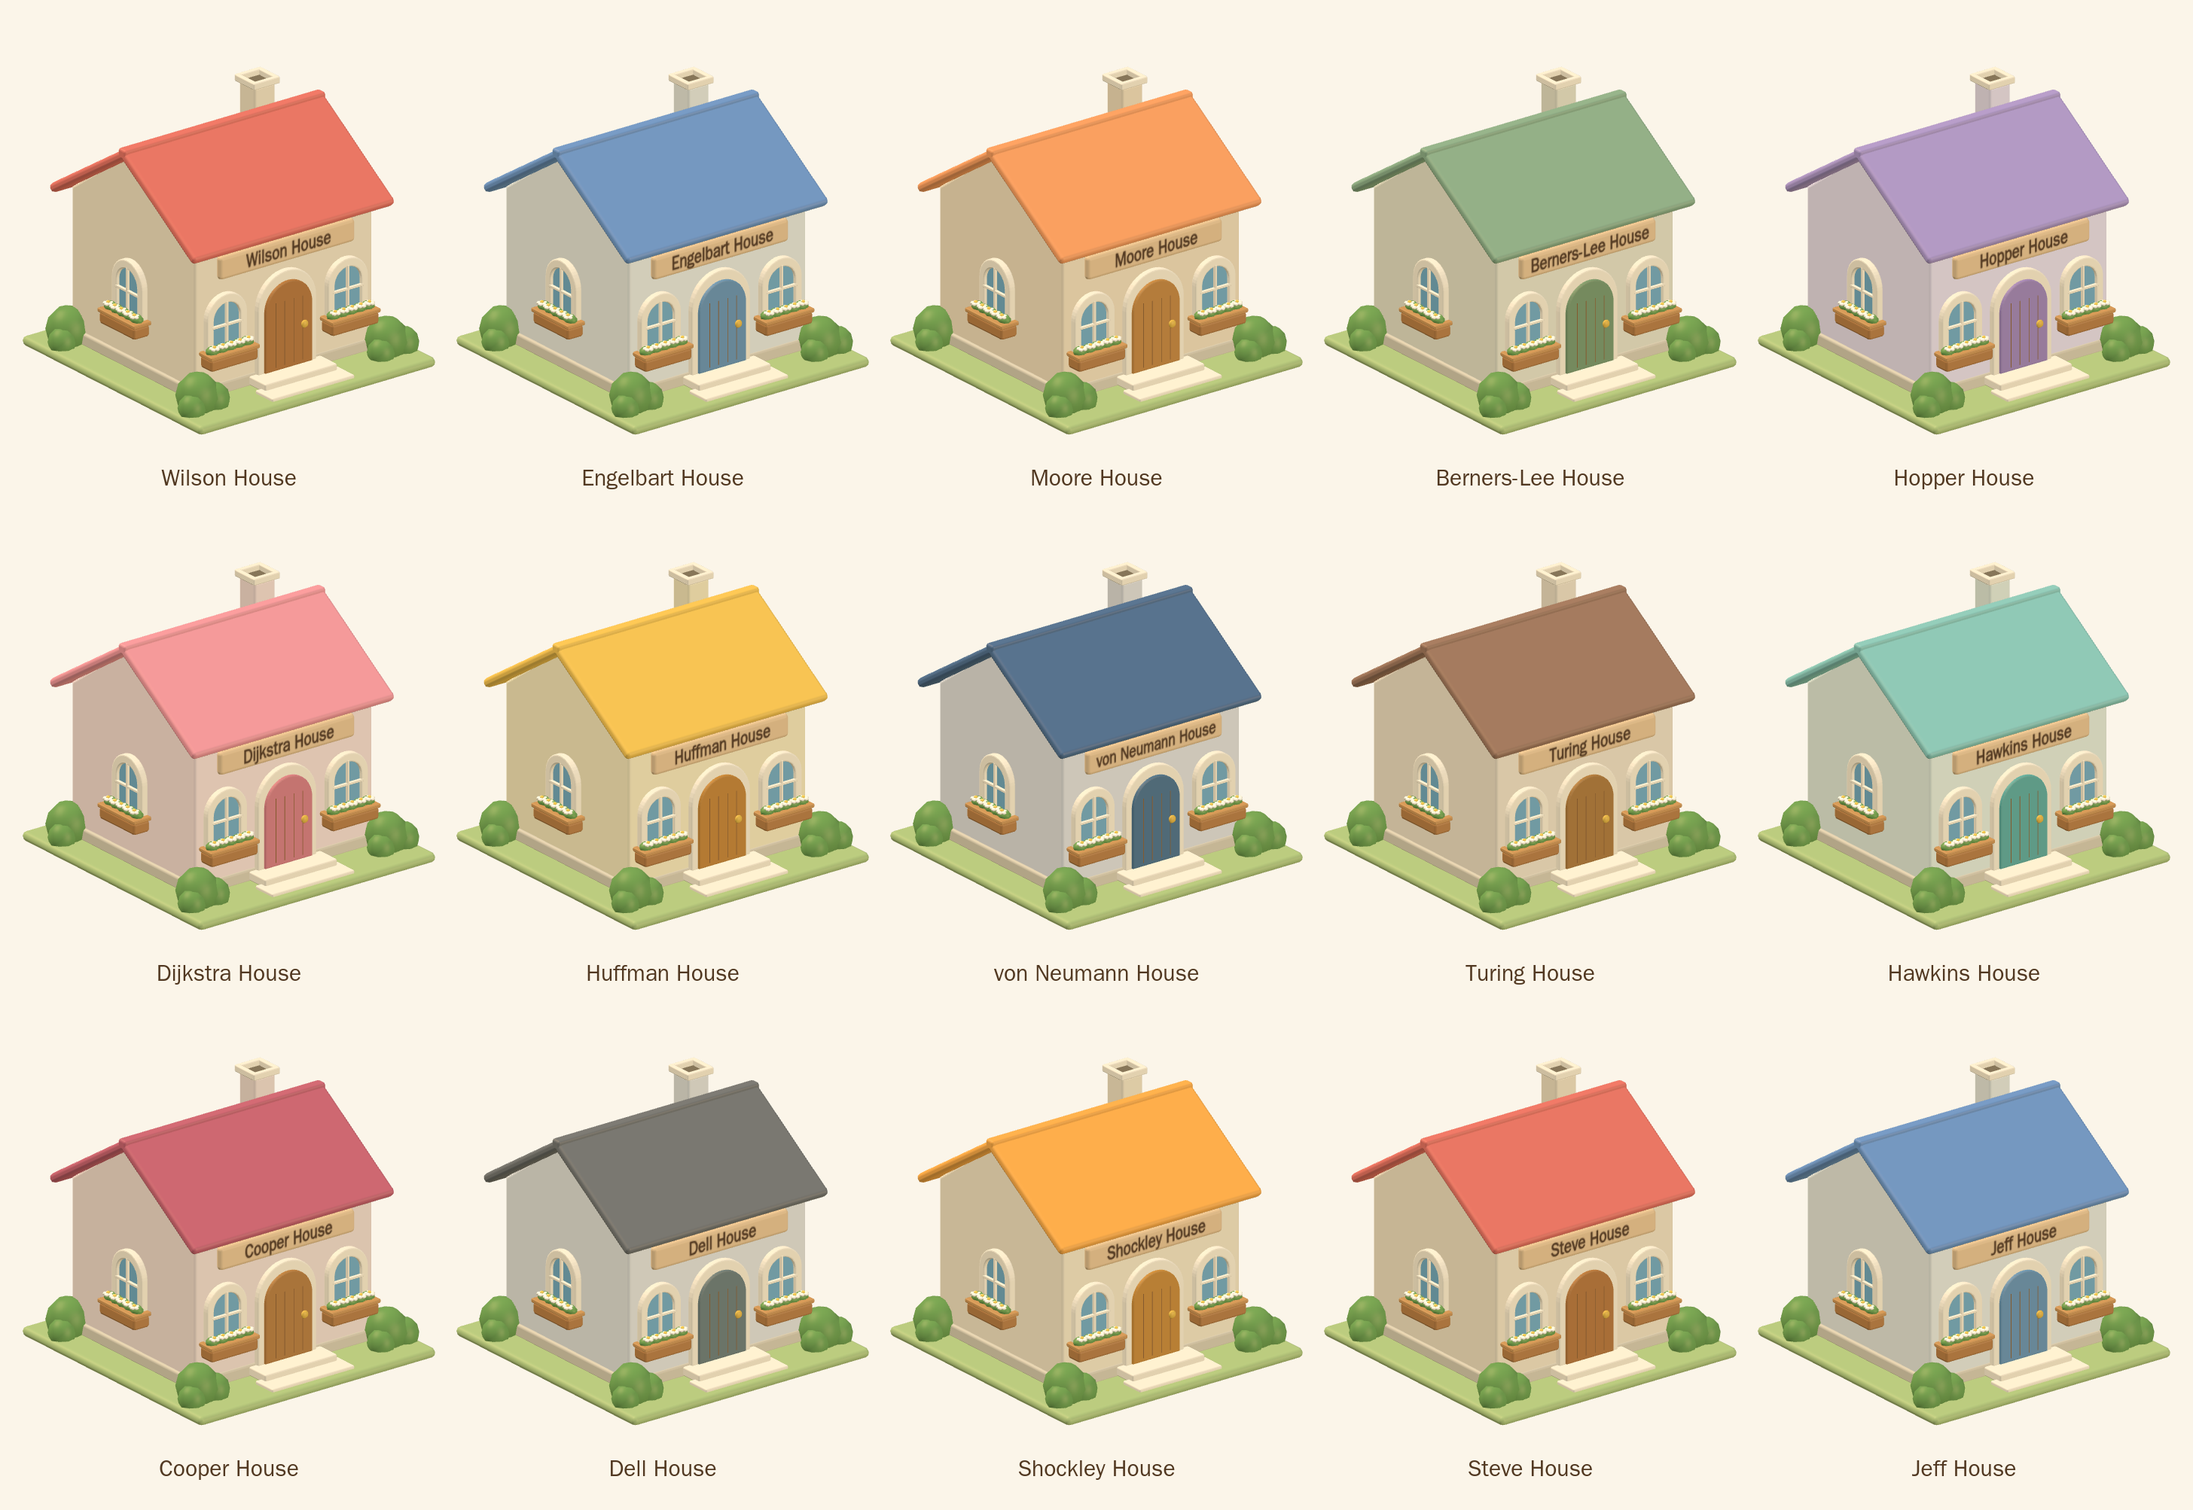
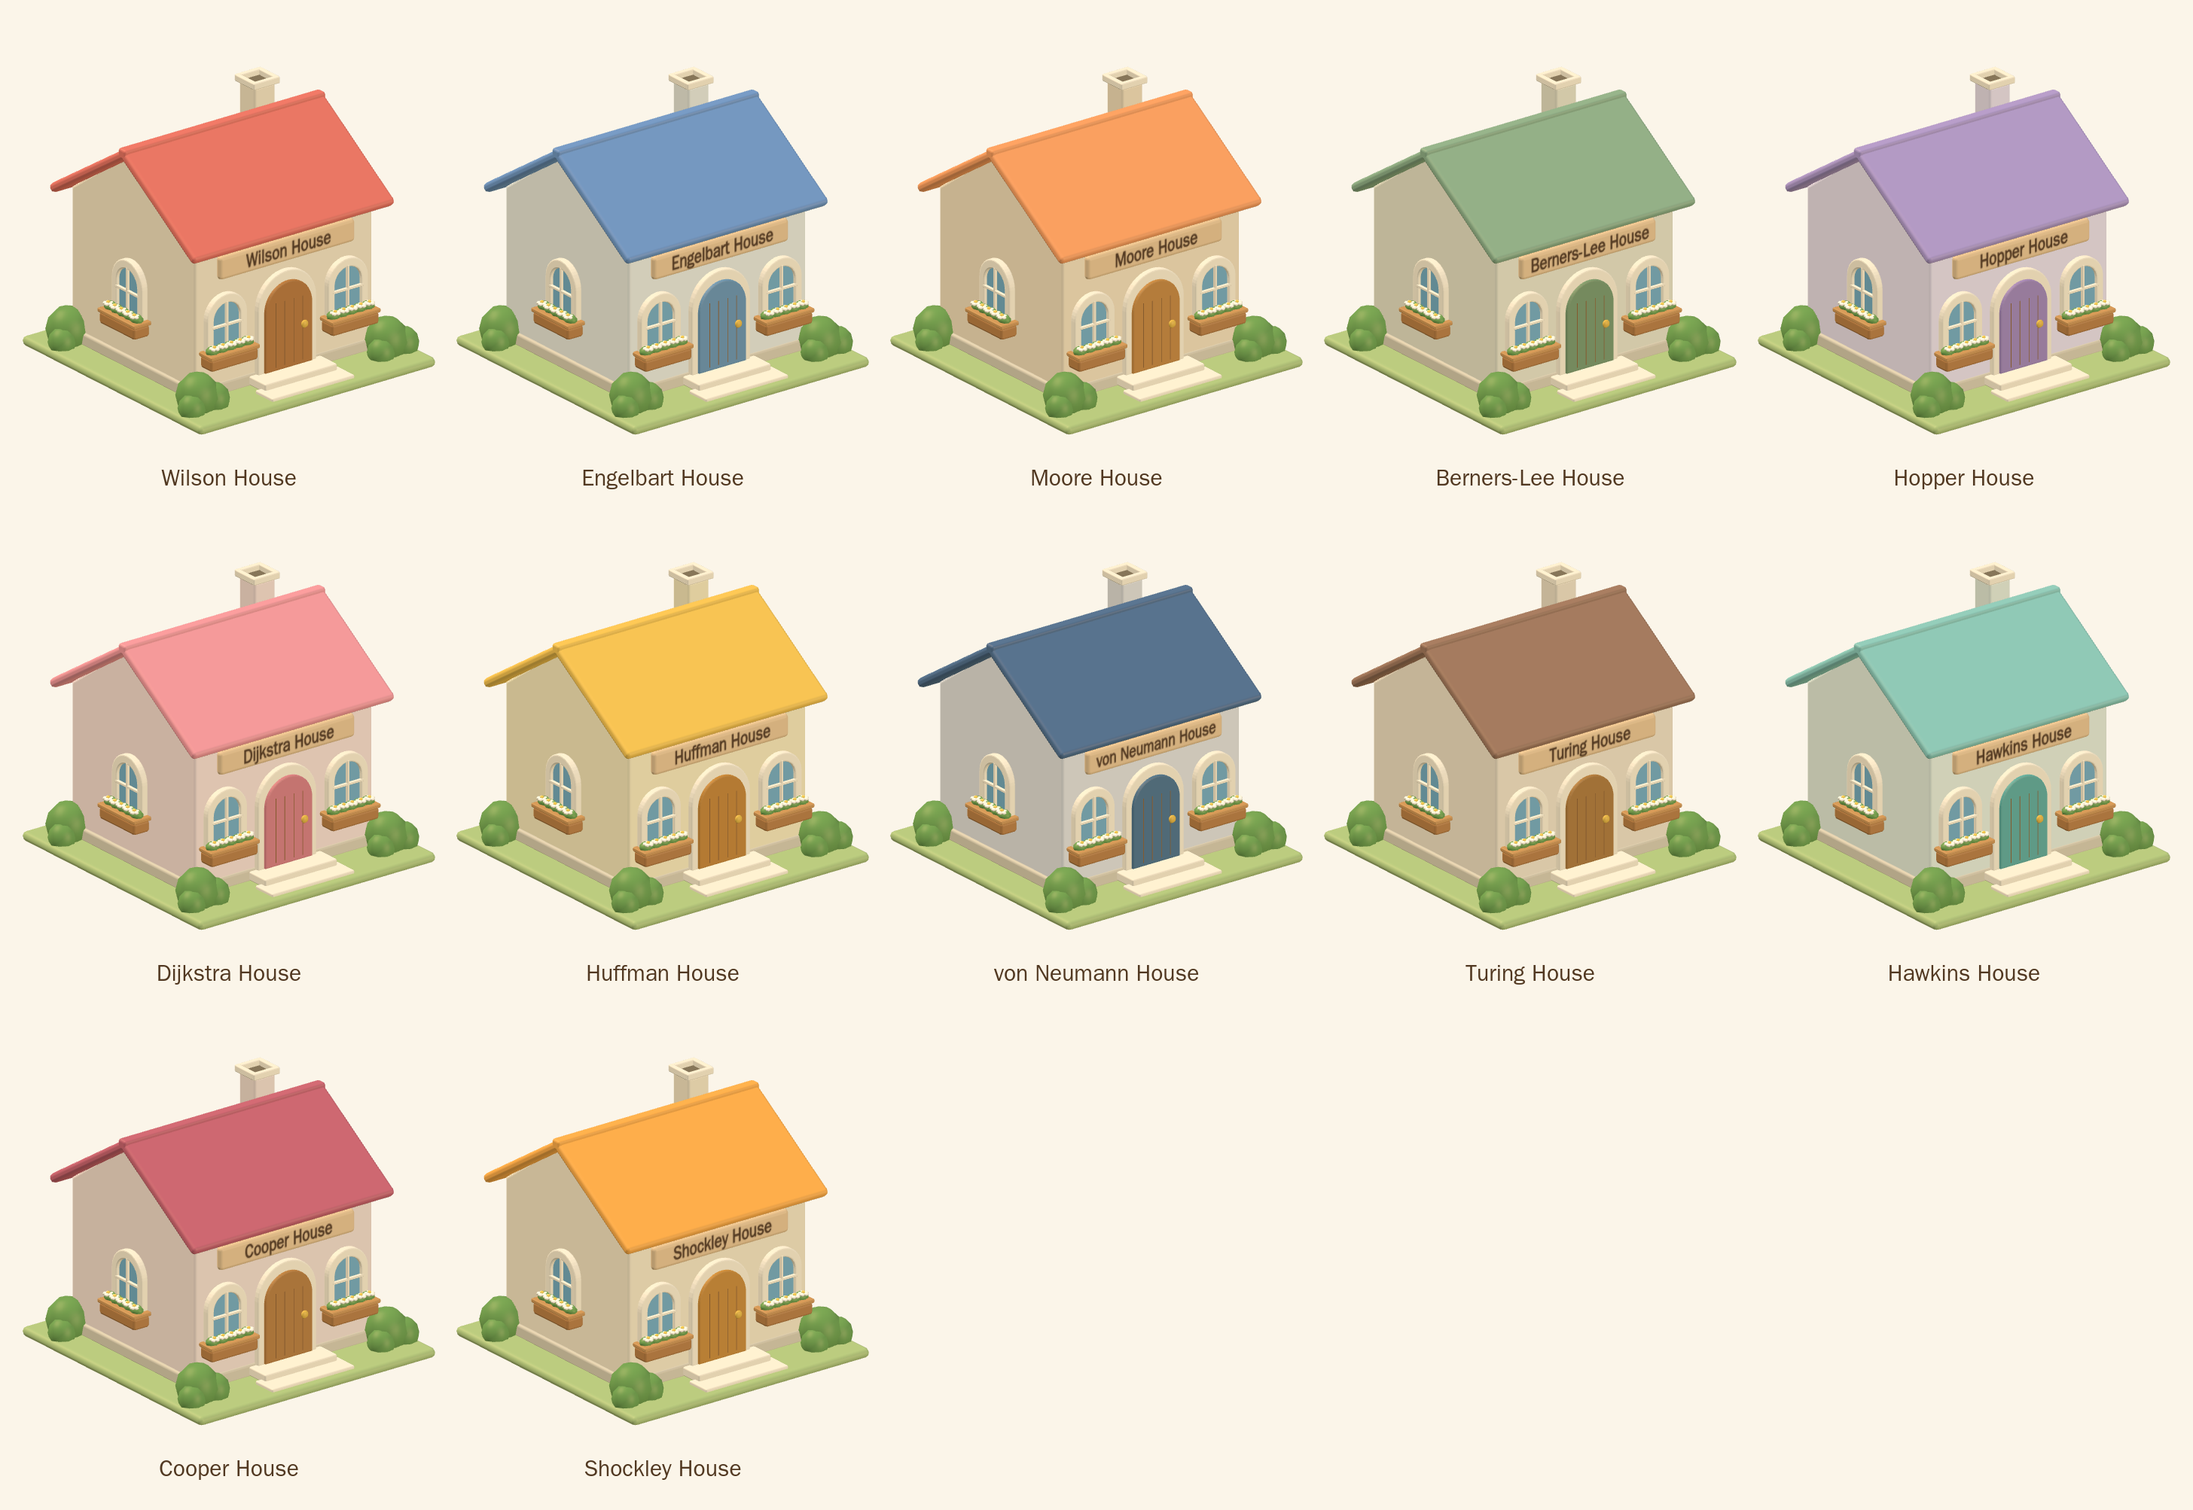
Remove three cottages and fix CI geometry comparison timeout

Changed region(s): [[0.4062, 0.68, 1.0, 0.989], [0.2188, 0.7109, 0.375, 0.8963], [0.2812, 0.9581, 0.3438, 0.989]]

diff --git a/packages/client/test/houses.test.ts b/packages/client/test/houses.test.ts
@@ -1,3 +1,4 @@
+import { Buffer } from 'node:buffer';
 import { describe, expect, it } from 'vitest';
 import { getTownMap, isWalkableTerrain } from '@tland/shared';
 import { BUILDING_CELL, HOUSE_DATA, HOUSE_NAMES, HOUSE_COLORS, buildingPlots } from '../src/world/buildingLayout.js';
@@ -7,19 +8,19 @@ const map = getTownMap();
 const squareDistance = (a: { x: number; y: number }, b: { x: number; y: number }): number =>
   (a.x - b.x) ** 2 + (a.y - b.y) ** 2;
 
-describe('fifteen named cottages', () => {
-  it('uses exactly the requested names and fifteen complete collision footprints', () => {
+describe('twelve named cottages', () => {
+  it('uses exactly the requested names and twelve complete collision footprints', () => {
     expect(HOUSE_NAMES).toEqual([
       'Wilson House', 'Engelbart House', 'Moore House', 'Berners-Lee House', 'Hopper House',
       'Dijkstra House', 'Huffman House', 'von Neumann House', 'Turing House', 'Hawkins House',
-      'Cooper House', 'Dell House', 'Shockley House', 'Steve House', 'Jeff House',
+      'Cooper House', 'Shockley House',
     ]);
-    expect(buildingPlots(map)).toHaveLength(15);
+    expect(buildingPlots(map)).toHaveLength(12);
     let count = 0;
     for (let y = 0; y < map.height; y++) for (let x = 0; x < map.width; x++) {
       if (map.terrainAt(x, y) === 'building') count++;
     }
-    expect(count).toBe(15 * BUILDING_CELL ** 2);
+    expect(count).toBe(12 * BUILDING_CELL ** 2);
     for (const house of buildingPlots(map)) {
       for (let y = house.y; y < house.y + 4; y++) for (let x = house.x; x < house.x + 4; x++) {
         expect(map.terrainAt(x, y)).toBe('building');
@@ -38,9 +39,10 @@ describe('fifteen named cottages', () => {
     }
   });
 
-  it('maximizes the minimum Euclidean distance among the original 28 plots exactly', () => {
+  it('retains the approved positions after removing three from the optimal initial fifteen', () => {
     const points = HOUSE_DATA.selection.originalPlots;
-    const chosen = HOUSE_DATA.houses;
+    const chosen = HOUSE_DATA.selection.initialPlots;
+    for (const house of HOUSE_DATA.houses) expect(chosen.some(p => p.x === house.x && p.y === house.y)).toBe(true);
     expect(new Set(chosen.map(p => p.x + ',' + p.y)).size).toBe(15);
     for (const house of chosen) expect(points.some(p => p.x === house.x && p.y === house.y)).toBe(true);
     const distances = chosen.flatMap((a, i) => chosen.slice(i + 1).map(b => squareDistance(a, b)));
@@ -78,8 +80,12 @@ describe('fifteen named cottages', () => {
     expect(positions.count / 3).toBeLessThan(15_000);
     for (let variant = 1; variant < HOUSE_COLORS.length; variant++) {
       const next = houseGeometry(variant);
-      expect(next.getAttribute('position').array).toEqual(positions.array);
-      expect(next.getAttribute('normal').array).toEqual(baseline.getAttribute('normal').array);
+      // Native byte comparison preserves exact equality without recursively walking
+      // millions of typed-array elements through the assertion framework.
+      const bytes = (array: ArrayBufferView): Buffer =>
+        Buffer.from(array.buffer, array.byteOffset, array.byteLength);
+      expect(bytes(next.getAttribute('position').array).equals(bytes(positions.array))).toBe(true);
+      expect(bytes(next.getAttribute('normal').array).equals(bytes(baseline.getAttribute('normal').array))).toBe(true);
       next.dispose();
     }
     baseline.dispose();

diff --git a/packages/shared/test/map.test.ts b/packages/shared/test/map.test.ts
@@ -57,12 +57,12 @@ describe('town map', () => {
 
   it('keeps deterministic merged district ownership after reclaiming house plots', () => {
     // Same merged seed groups; reclaimed house footprints create new walking routes.
-    // This fingerprint covers the fifteen-cottage collision terrain.
+    // This fingerprint covers the twelve-cottage collision terrain.
     const labels: string[] = [];
     for (let y = 0; y < map.height; y++) for (let x = 0; x < map.width; x++) {
       labels.push((map.zoneAt(x, y) ?? '-') + '\n');
     }
[2 lines of base64/hex data omitted]
   });
 
   it('gives every zone a distinct name', () => {

diff --git a/packages/server/test/integration.test.ts b/packages/server/test/integration.test.ts
@@ -299,14 +299,13 @@ describe('game server', () => {
 
     const target = { x: bob.position.x + 8, y: bob.position.y };
     bob.moveTo(target.x, target.y);
-    await ticks(3);
-
-    const update = alice
-      .all('state')
-      .flatMap((state) => state.players)
-      .find((player) => player.id === bob.id);
-    expect(update).toBeDefined();
-    expect(update?.x).toBeCloseTo(target.x, 0);
+    // A state sent just before the move may still arrive after clear().
+    // Assert the latest relay eventually reaches the target, not the first
+    // buffered packet or an assumed number of scheduler ticks.
+    await expect.poll(() => alice.all('state')
+      .flatMap(state => state.players)
+      .filter(player => player.id === bob.id)
+      .at(-1)?.x, { timeout: 2000 }).toBeCloseTo(target.x, 0);
   });
 
   it('never echoes a player their own position', async () => {

diff --git a/packages/client/houses.html b/packages/client/houses.html
@@ -1,6 +1,6 @@
 <!doctype html><html><head><meta charset="utf-8"><title>Named cottage review</title>
 <style>body{margin:0;background:#fbf5e9;color:#513821;font:15px system-ui}h1{font-size:24px;margin:20px 24px}#sheet{width:max-content;display:grid;gap:8px;padding:12px}figure{margin:0}canvas{display:block}figcaption{text-align:center;padding:6px}</style></head>
-<body><h1>十五間房屋 · Cottage review</h1><div id="sheet"></div><script type="module">
+<body><h1>十二間房屋 · Cottage review</h1><div id="sheet"></div><script type="module">
 import * as THREE from 'three';
 import { houseGeometry, houseSigns } from '/src/three/house.ts';
 import { addTownLights } from '/src/three/lighting.ts';

diff --git a/docs/visual/named-houses/README.md b/docs/visual/named-houses/README.md
@@ -1,31 +1,27 @@
-# Fifteen named reference cottages
+# Twelve named reference cottages
 
-2026-10-25 · branch: `codex/fifteen-named-houses`
+2026-10-25 · PR #33 · branch: `codex/fifteen-named-houses`
 
-## Placement
+## Current placement
 
-Retained fifteen of the existing twenty-eight plots using **exact max-min
-Euclidean spacing** between plot centers. Since every plot is 4 × 4, center
-and top-left distances are identical. The smallest squared distance is 128
-tiles² (11.3137 tiles). An exact compatibility-graph search proves that no
-fifteen original plots can achieve the next possible squared distance, 144.
-Ties use stable north-to-south / west-to-east ordering.
+Steve House, Dell House and Jeff House have been removed as requested. Their
+48 building tiles are grass in the shared client/server map. The other twelve
+houses retain their positions, names and colors; there is no re-selection or
+relocation. There are exactly 192 building tiles (twelve complete 4 × 4 plots).
 
-The original candidates, selected coordinates and names are recorded in
-`packages/shared/src/map/houses.json`. Removed building tiles become grass;
-rendering and server collision both use the resulting shared terrain. One old
-footprint had a road cut through five tiles; the retained Huffman House now
-has a complete blocking footprint matching the model. Door approaches are
-cleared of random trees/benches, without filling adjacent water.
+The initial fifteen plots were selected by exact max-min Euclidean spacing
+among the original twenty-eight. The optimal minimum distance was √128 =
+11.3137 tiles. The initial selection is retained as provenance and tested
+separately; the remaining twelve are not presented as a new globally optimal
+twelve-house selection.
 
-District seed groups/positions are retained. District ownership is recalculated
-using the existing walking-distance algorithm on the reclaimed terrain; its
-deterministic test fingerprint is updated accordingly.
+The map generator reproduces the checked-in map byte-for-byte. The retained
+Huffman House has a full collision footprint rather than the former road
+sliver. Door approaches are clear of random blocking props. District seeds
+are unchanged; the existing walking-distance algorithm recalculates ownership
+for the reclaimed land, with its deterministic snapshot updated accordingly.
 
-The map generator applies the same selection, preserves the original district
-seed placement, and reproduces the checked-in map byte-for-byte.
-
-![Numbered map](locations.png)
+![Current location plan](locations.png)
 
 | # | Name | Top-left tile x, y | Palette |
 | --- | --- | --- | --- |
@@ -40,45 +36,40 @@ seed placement, and reproduces the checked-in map byte-for-byte.
 | 9 | Turing House | 104, 72 | 9 |
 | 10 | Hawkins House | 52, 80 | 10 |
 | 11 | Cooper House | 36, 84 | 11 |
-| 12 | Dell House | 64, 88 | 12 |
-| 13 | Shockley House | 76, 88 | 13 |
-| 14 | Steve House | 32, 100 | 1 |
-| 15 | Jeff House | 40, 120 | 2 |
+| 12 | Shockley House | 76, 88 | 13 |
 
-## Model
+## Cottage design
 
-One fixed cottage silhouette follows the supplied reference: cream gabled
-walls, broad rounded pitched roof, hollow chimney, arched plank door and brass
-knob, two front windows and one on each side, cream window frames, crossbars,
-flower boxes, steps, corner shrubs and a rounded grass foundation.
+One fixed silhouette follows the reference: rounded pitched roof, gabled
+walls, hollow chimney, arched door/windows, flowerboxes, steps, shrubs,
+rounded grass foundation and a wooden name plaque. Twelve colors from the
+thirteen supported schemes are now used. Each house is 14,460 triangles;
+repeated palette geometries are cached and all names share one texture atlas.
 
-The thirteen reference-inspired palettes repeat for Steve and Jeff. All
-fifteen plaques use the requested names; none uses the sample name from the
-reference. The name text uses a single shared texture atlas and material.
-Color variants have identical vertex positions/normals. Each cottage is
-14,460 triangles; repeated palette geometries are cached within the scene.
-Each modeled footprint stays inside its 4 × 4 collision plot.
+The 2D fallback shows the same color and name with a code-drawn front elevation.
+These are actual WebKit renders of the TypeScript model.
 
-The 2D fallback uses a code-drawn front elevation with the same palette,
-arched details, flowerboxes and matching name plaque. Images below are actual
-WebKit renders of the TypeScript model, not generated concept art.
-
-![All names and colors](variants.png)
+![Twelve named houses](variants.png)
 
 ![Seven views](turnaround.png)
 
-![Model details](details.png)
+![Details](details.png)
 
-## Reproduce
+## CI repair
 
-With the Vite client running:
+The first PR CI run failed because the all-palette geometry test took 8.3
+seconds on the GitHub runner, exceeding its unchanged 5-second timeout.
+Recursive matcher comparison of large typed arrays is replaced with native
+`Buffer.equals` on precisely bounded byte views. Every position and normal
+byte in all thirteen palettes is still compared exactly; no timeout or
+performance budget is raised.
 
-```sh
-node scripts/house-review.mjs
-```
+Local validation also exposed a movement-relay test race: a state packet sent
+before the move could arrive after clearing the receive buffer, and the test
+selected that oldest packet. It now waits for the latest relayed position to
+reach the target instead of relying on a fixed sleep and first packet.
 
-This captures the seven views, fifteen named variants, detail views and location
-plan and fails on browser/shader errors.
+## Validation and reproduction
 
 ```sh
 node scripts/build-map.mjs
@@ -89,41 +80,25 @@ npm run build
 npx playwright test
 ```
 
-The cottage-specific scenarios in `e2e/houses.spec.ts` stand south of Wilson
-House and capture both renderers across the four WebKit device profiles.
-Rendering budgets remain 150 calls / 300,000 triangles for stationary scenes;
-the crowd scenario retains the existing explicit draw-call deviation ceiling.
-Physical iPhone frame rate still requires device testing.
+With the Vite client running:
 
-## Verification results
+```sh
+node scripts/house-review.mjs
+```
 
-- Type checking, ESLint and production build passed.
-- **202 unit tests passed**, including exact spacing optimality, fifteen names,
-  collision footprints, reclaimed terrain, door approaches and invariant geometry.
-- **72 existing WebKit regressions + 8 dedicated cottage scenarios passed**.
-- The map generator reproduces the checked-in JSON byte-for-byte.
-- Visual capture completed without browser/shader errors.
+This captures current locations, twelve named variants, seven views and detail
+views, failing on browser/shader errors. Dedicated cottage scenarios capture
+2D/3D on iPhone/iPad portrait and landscape.
 
-| WebKit device | Cottage scene calls | Cottage scene triangles | 31-character calls | 31-character triangles |
-| --- | ---: | ---: | ---: | ---: |
-| iPhone portrait | 37 | 114,150 | 120 | 558,524 |
-| iPhone landscape | 51 | 157,387 | 138 | 589,906 |
-| iPad portrait | 36 | 111,414 | 114 | 518,176 |
-| iPad landscape | 63 | 217,082 | 152 | 704,722 |
+Stationary rendering limits remain 150 calls / 300,000 triangles. The crowd
+scenario retains its existing explicit call deviation ceiling. Physical-device
+60fps remains unverified.
 
-Stationary cottage scenes remain below 150 calls and 300,000 triangles.
-Crowd draw calls decrease by six in each profile relative to the preceding
-character implementation, but crowd triangles increase with the detailed
-cottages: the widest crowd scene is now 704,722 triangles. iPad landscape
-still exceeds the original 150-call goal by two; the existing regression
-ceiling is unchanged. This is a reported limitation, not a raised budget.
-Software-rendered tests do not establish physical-device 60fps.
+![Current iPhone 3D](cottage-3d-iphone.png)
 
-Actual game captures:
+![Current iPhone 2D](cottage-2d-iphone.png)
 
-![iPhone 3D](cottage-3d-iphone.png)
-
-![iPhone 2D](cottage-2d-iphone.png)
-
-All four device/orientation captures for both renderers are saved beside this
-report. Detailed counters are in `performance.json`.
+Local verification of the twelve-house update: type checking, ESLint, build,
+202 unit tests and all eight dedicated WebKit cottage scenarios passed.
+Current cottage counters are in `performance.json`; all stationary views stay
+below the unchanged budgets.
